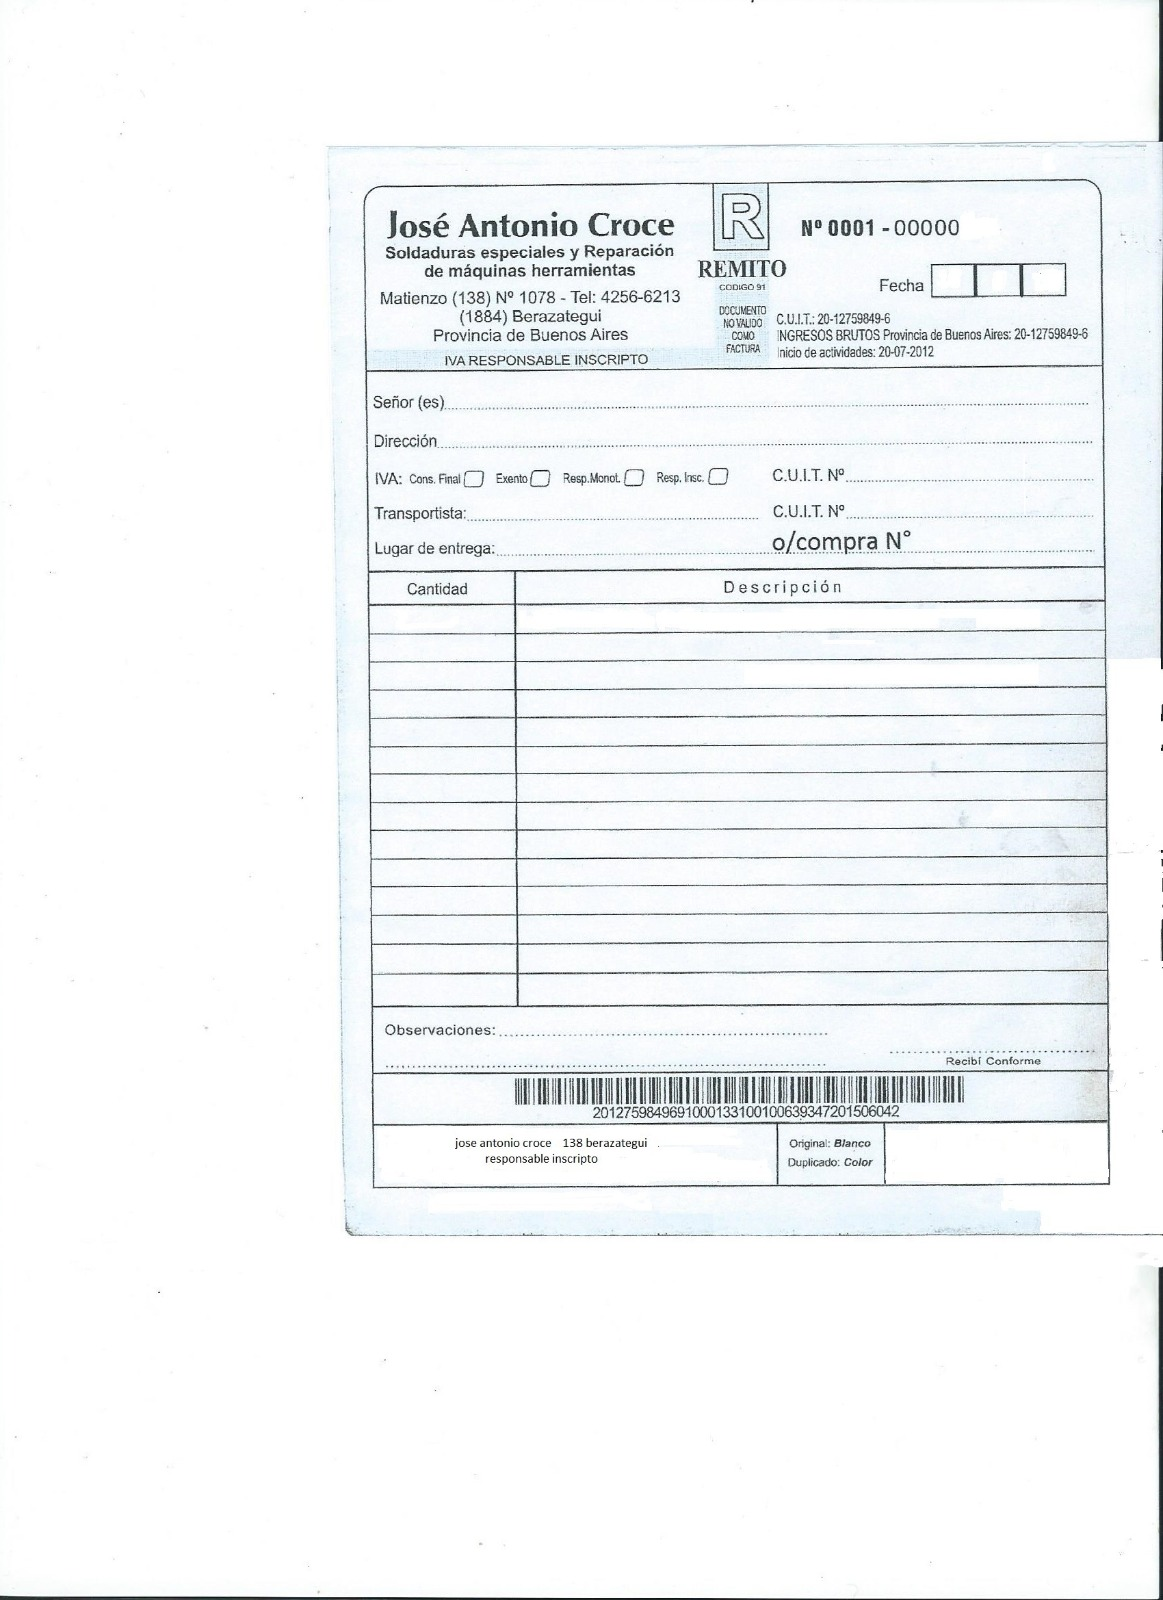
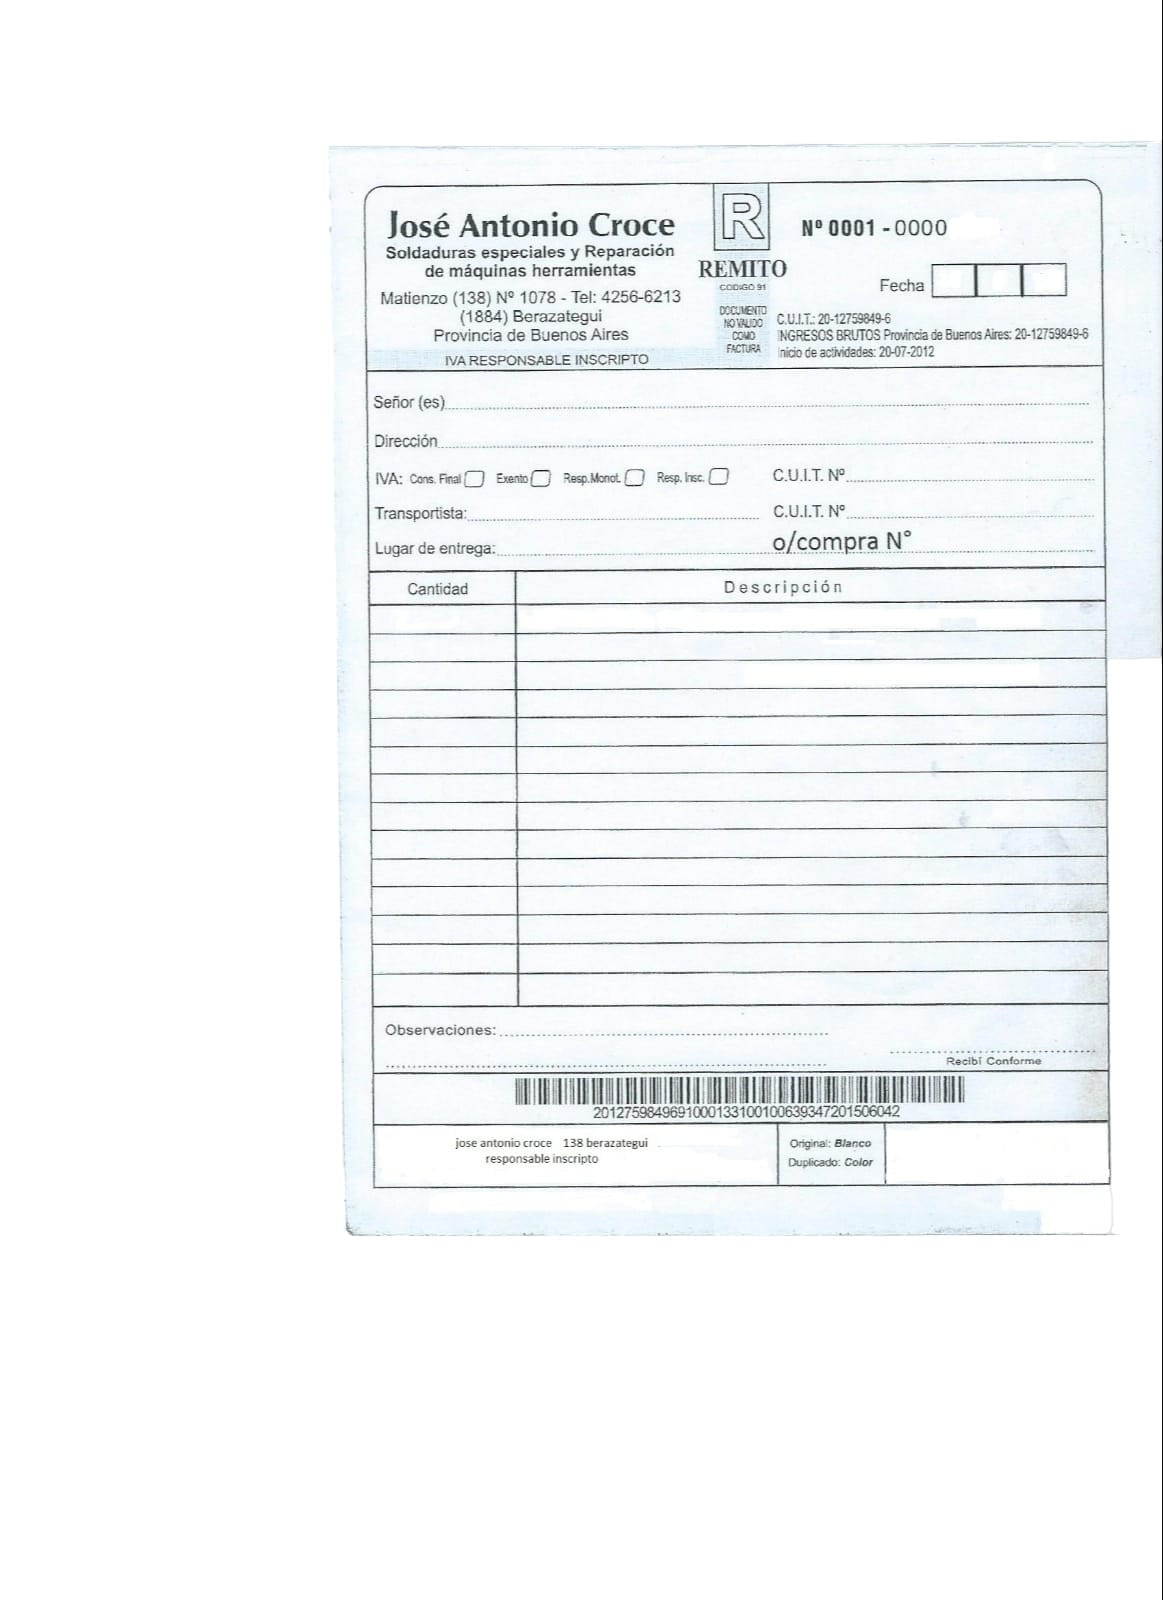
agrego 4 cifras

diff --git a/aplication.py b/aplication.py
@@ -41,7 +41,7 @@ def escribir(seniores, direc, transp, lugar, cui, iba, remitos, dia, mes, anio, 
     font20 = ImageFont.truetype(f'{directorio}/arial.ttf', 20)
     font22 = ImageFont.truetype(f'{directorio}/arial.ttf', 22)
     font24 = ImageFont.truetype(f'{directorio}/arial.ttf', 24)
-    draw.text((960, 216),remit, font=font22, fill="black")
+    draw.text((948, 215),remit, font=font22, fill="black")
     draw.text((940, 268),dia, font=font24, fill="black")
     draw.text((985, 268),mes, font=font24, fill="black")
     draw.text((1030, 268),anio, font=font24, fill="black")
@@ -210,7 +210,7 @@ def actual_numero():
             return "999"
 
 class Registro(FlaskForm):
-    remito = StringField('Remito N°', render_kw={'style': 'font-size: 1rem; width: 40px', "size": 3}, validators=[DataRequired(), Length(max=3)])
+    remito = StringField('Remito N°', render_kw={'style': 'font-size: 1rem; width: 40px', "size": 4}, validators=[DataRequired(), Length(max=4)])
     dia = StringField('Dia', render_kw={'style': 'font-size: 1rem; width: 25px' , 'value':dia, "size":2}, validators=[DataRequired(), Length(max=2)])
     mes = StringField('Mes',render_kw={'style': 'font-size: 1rem; width: 25px','value':mes, "size":2}, validators=[DataRequired(), Length(max=2)])
     anio = StringField('Año', render_kw={'style': 'font-size: 1rem; width: 25px', 'value':anio_s, "size":2}, validators=[DataRequired(), Length(max=2)])
@@ -312,7 +312,7 @@ def descargar(ruta_archivo):
         resultado=MiTabla.query.filter_by(id=1).first()
         if resultado:
             print(resultado.numero)
-            resultado.numero = int(ruta_archivo[6:9])+1
+            resultado.numero = int(ruta_archivo[6:10])+1
             print(resultado.numero)
             db.session.commit()
     ruta_imagen = directorio+"/static/"+ruta_archivo
